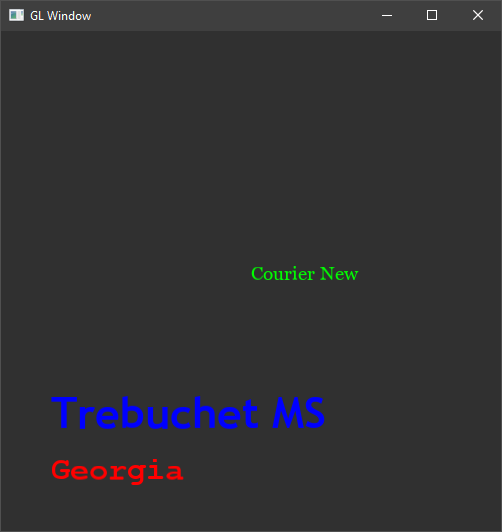
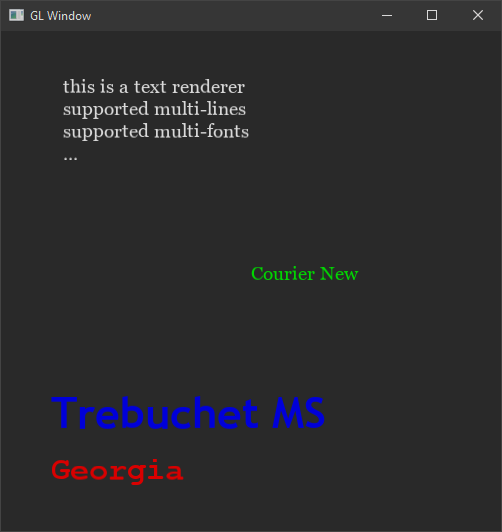
Initial

diff --git a/example/example.text.h b/example/example.text.h
@@ -23,6 +23,9 @@ public:
 
   virtual void on_display()
   {
+    glColor3f(1.F, 1.F, 1.F);
+    m_text_render_2d.render_text("this is a text renderer\nsupported multi-lines\nsupported multi-fonts\n...", p2d(-0.75, +0.75));
+
     glColor3f(0.F, 1.F, 0.F);
     m_text_render_2d.render_text("Courier New", p2d(0., 0.));
 
